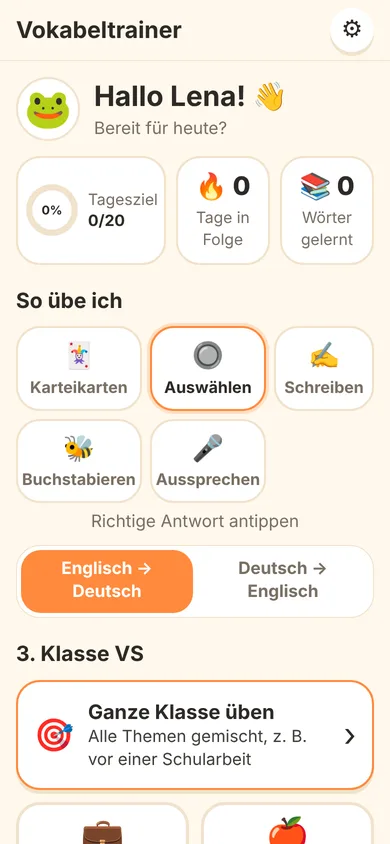
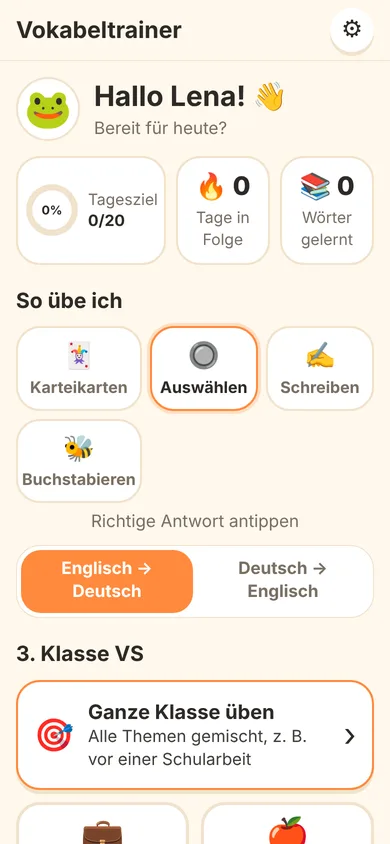
Startseite: Aussprechen-Modus entfernt, neuer Startseiten-Screenshot
Claude-Session: https://claude.ai/code/session_01HJCTfm3J5wBdHDVTYJYNpq

Changed region(s): [[0.4, 0.3697, 0.9231, 0.4929], [0.3692, 0.4929, 0.7077, 0.5853], [0.7077, 0.3697, 0.7385, 0.4005]]

diff --git a/index.html b/index.html
@@ -400,10 +400,10 @@
     </div>
 
     <div class="cards">
-      <div class="fcard reveal"><div class="ico">🃏</div><h3>Fünf Übungsarten</h3><p>Karteikarten, Auswählen, Schreiben, Buchstabieren und Aussprechen. Jedes Kind findet seinen Weg.</p></div>
+      <div class="fcard reveal"><div class="ico">🃏</div><h3>Vier Übungsarten</h3><p>Karteikarten, Auswählen, Schreiben und Buchstabieren. Jedes Kind findet seinen Weg.</p></div>
       <div class="fcard reveal"><div class="ico">🔁</div><h3>Wiederholt, was hakt</h3><p>Falsche Wörter kommen öfter dran, sichere seltener. So bleibt mehr hängen.</p></div>
       <div class="fcard reveal"><div class="ico">🎯</div><h3>Fit für die Schularbeit</h3><p>Prüfung eintragen, Countdown sehen und jeden Tag eine passende Portion üben.</p></div>
-      <div class="fcard reveal"><div class="ico">🔊</div><h3>Hören und Sprechen</h3><p>Wörter und Beispielsätze vorlesen lassen und die eigene Aussprache prüfen.</p></div>
+      <div class="fcard reveal"><div class="ico">🔊</div><h3>Zum Anhören</h3><p>Wörter und Beispielsätze auf Englisch vorlesen lassen, so oft man will.</p></div>
       <div class="fcard reveal"><div class="ico">🔒</div><h3>Elternbereich mit PIN</h3><p>Eigene Vokabeln eintragen, Listen als CSV oder JSON importieren und sichern.</p></div>
       <div class="fcard reveal"><div class="ico">📱</div><h3>Wie eine App</h3><p>Läuft im Browser auf iPhone, iPad und Android und lässt sich auf den Home-Bildschirm legen.</p></div>
     </div>
@@ -440,8 +440,7 @@
       <figure class="shot"><div class="phone"><img src="img/home.webp" alt="Startseite mit Tagesziel" loading="lazy"></div><figcaption>Start<small>Tagesziel und Übungsart</small></figcaption></figure>
       <figure class="shot"><div class="phone"><img src="img/karten.webp" alt="Karteikarte" loading="lazy"></div><figcaption>Karteikarten<small>Antippen zum Umdrehen</small></figcaption></figure>
       <figure class="shot"><div class="phone"><img src="img/auswahl.webp" alt="Auswahlfrage" loading="lazy"></div><figcaption>Auswählen<small>Richtige Antwort antippen</small></figcaption></figure>
-      <figure class="shot"><div class="phone"><img src="img/schreiben.webp" alt="Lückensatz zum Schreiben" loading="lazy"></div><figcaption>Schreiben<small>Im echten Satz</small></figcaption></figure>
-      <figure class="shot"><div class="phone"><img src="img/sprechen.webp" alt="Aussprechen" loading="lazy"></div><figcaption>Aussprechen<small>Selbst sagen</small></figcaption></figure>
+      <figure class="shot"><div class="phone"><img src="img/schreiben.webp" alt="Buchstabieren im Lückensatz" loading="lazy"></div><figcaption>Buchstabieren<small>Im echten Satz</small></figcaption></figure>
       <figure class="shot"><div class="phone"><img src="img/pruefung.webp" alt="Prüfungsvorbereitung" loading="lazy"></div><figcaption>Prüfung<small>Gezielt vorbereiten</small></figcaption></figure>
       <figure class="shot"><div class="phone"><img src="img/elternbereich.webp" alt="Elternbereich" loading="lazy"></div><figcaption>Elternbereich<small>Hinter der PIN</small></figcaption></figure>
       <figure class="shot"><div class="phone"><img src="img/eltern.webp" alt="Fortschritt eines Kindes" loading="lazy"></div><figcaption>Fortschritt<small>Pro Kind</small></figcaption></figure>
